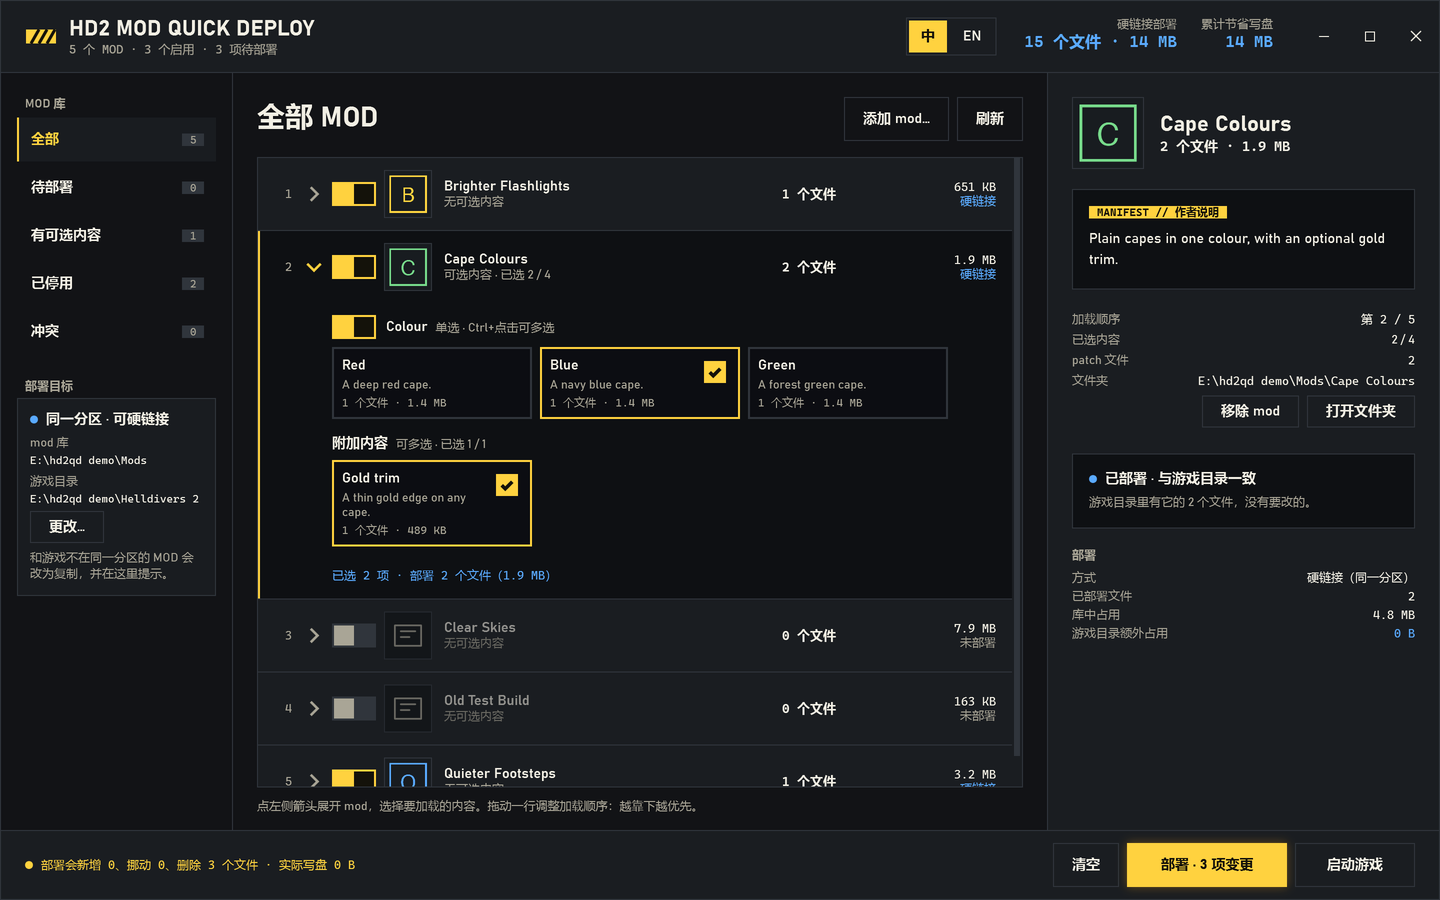
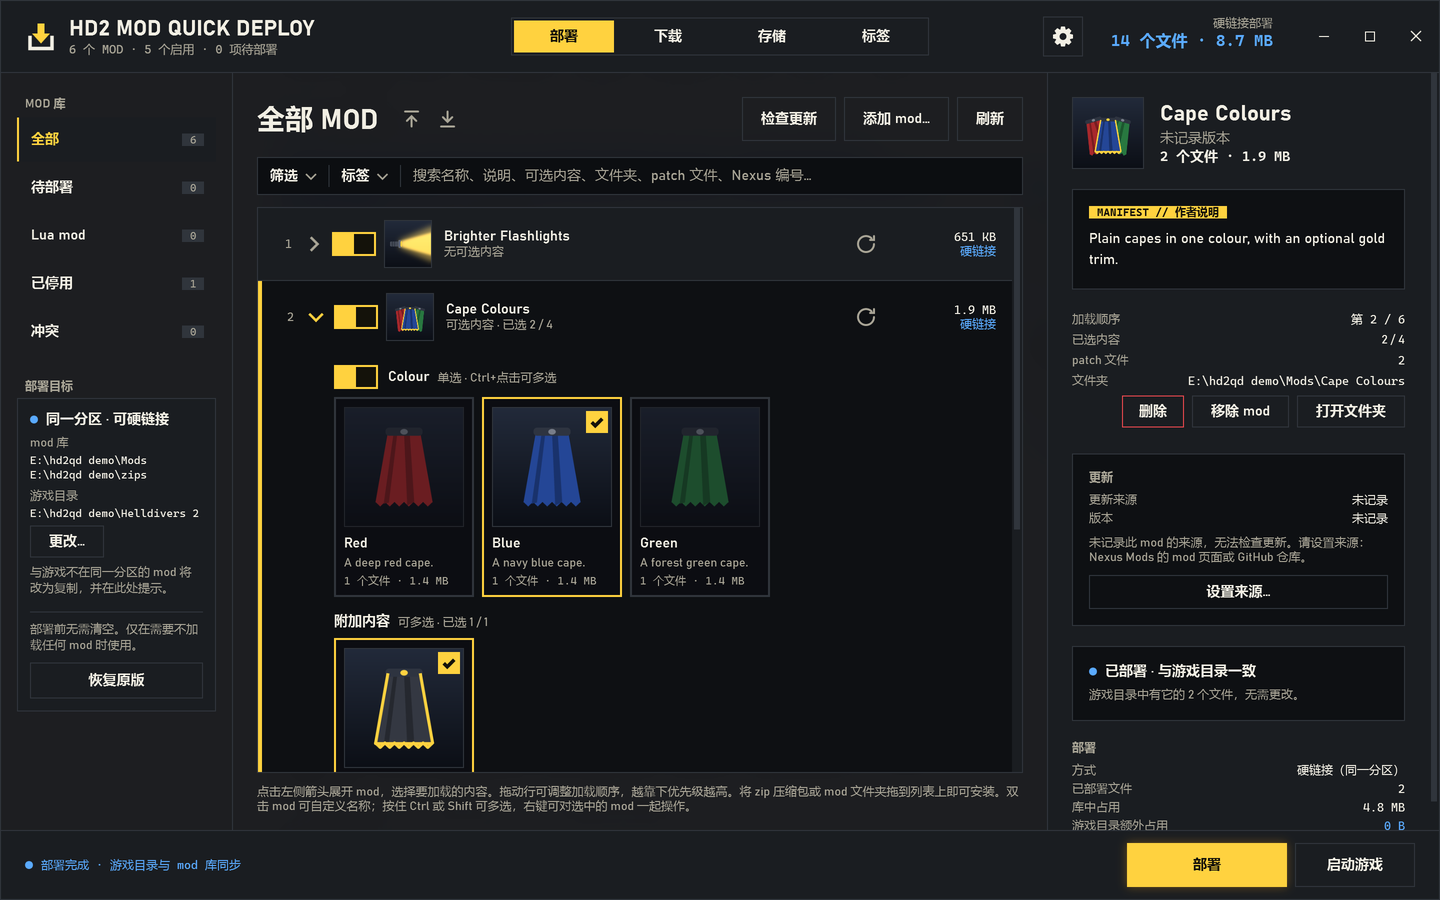
HD2 Mod Quick Deploy 0.7.0: official build notes, new screenshots

diff --git a/gui/QuickDeploy/MainWindow.xaml.cs b/gui/QuickDeploy/MainWindow.xaml.cs
@@ -447,6 +447,15 @@ namespace QuickDeploy
                 g.Start();
                 return;
             }
+            if (Environment.GetEnvironmentVariable("HD2QD_CLICK_TEST") == "listtop")
+            {
+                // "listtop": the list scrolled back to its top after the start, for the README's
+                // picture (--select opens a mod and scrolls it to the top of the list)
+                var g = new DispatcherTimer { Interval = TimeSpan.FromSeconds(2) };
+                g.Tick += (s, e) => { g.Stop(); ListScroll.ScrollToVerticalOffset(0); };
+                g.Start();
+                return;
+            }
             if (Environment.GetEnvironmentVariable("HD2QD_CLICK_TEST") == "topwins")
             {
                 // "topwins": the list shown with the winner at the top. Writes down the rows' order,
